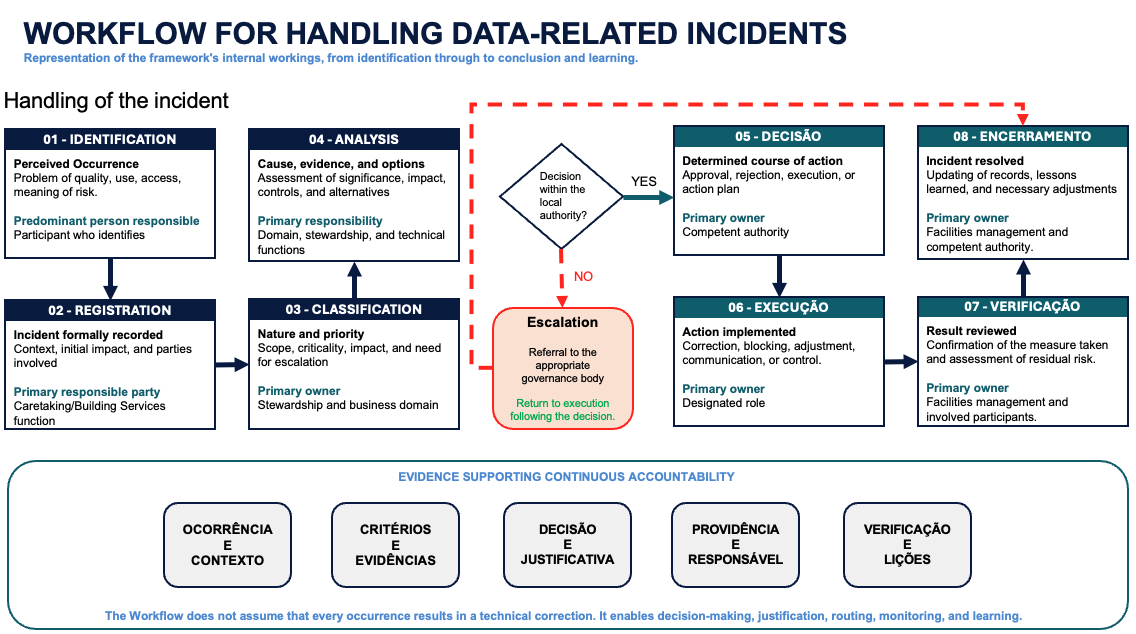
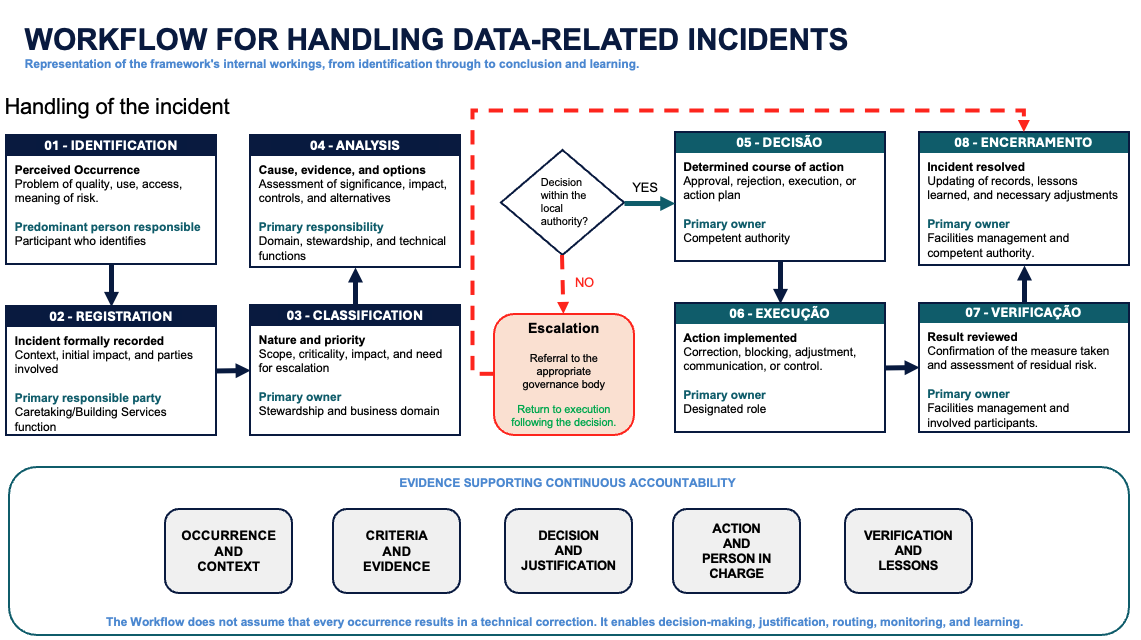
Update versoes modelos e linguagem

diff --git a/kit.css b/kit.css
@@ -178,9 +178,9 @@ tr:nth-child(even) td { background: #fafcfc; }
   box-shadow: 0 4px 15px rgba(8,43,87,.05);
 }
 /* Cada visual tem uma escala própria: síntese, fluxo e matriz não competem com o texto. */
-.framework-visual--overview { width: clamp(320px, 90%, 940px); }
-.framework-visual--flow { width: clamp(320px, 82%, 820px); }
-.framework-visual--matrix { width: clamp(320px, 94%, 980px); }
+.framework-visual--overview { width: clamp(320px, 95%, 1024px); }
+.framework-visual--flow { width: clamp(320px, 87%, 820px); }
+.framework-visual--matrix { width: clamp(320px, 99%, 1080px); }
 .framework-visual img {
   display: block;
   width: 100%;
